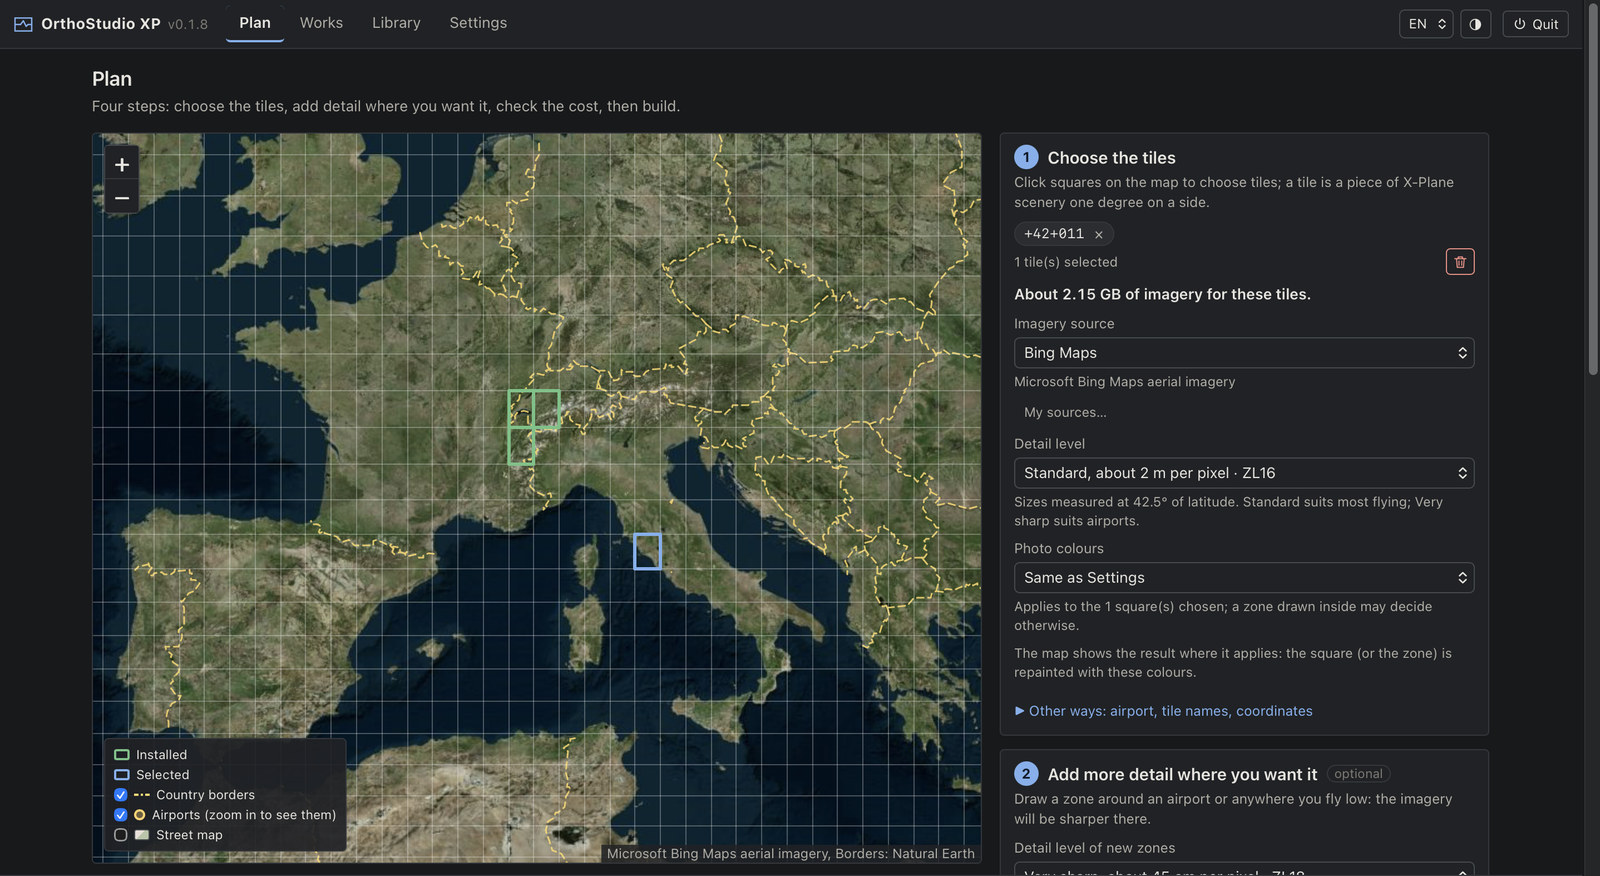
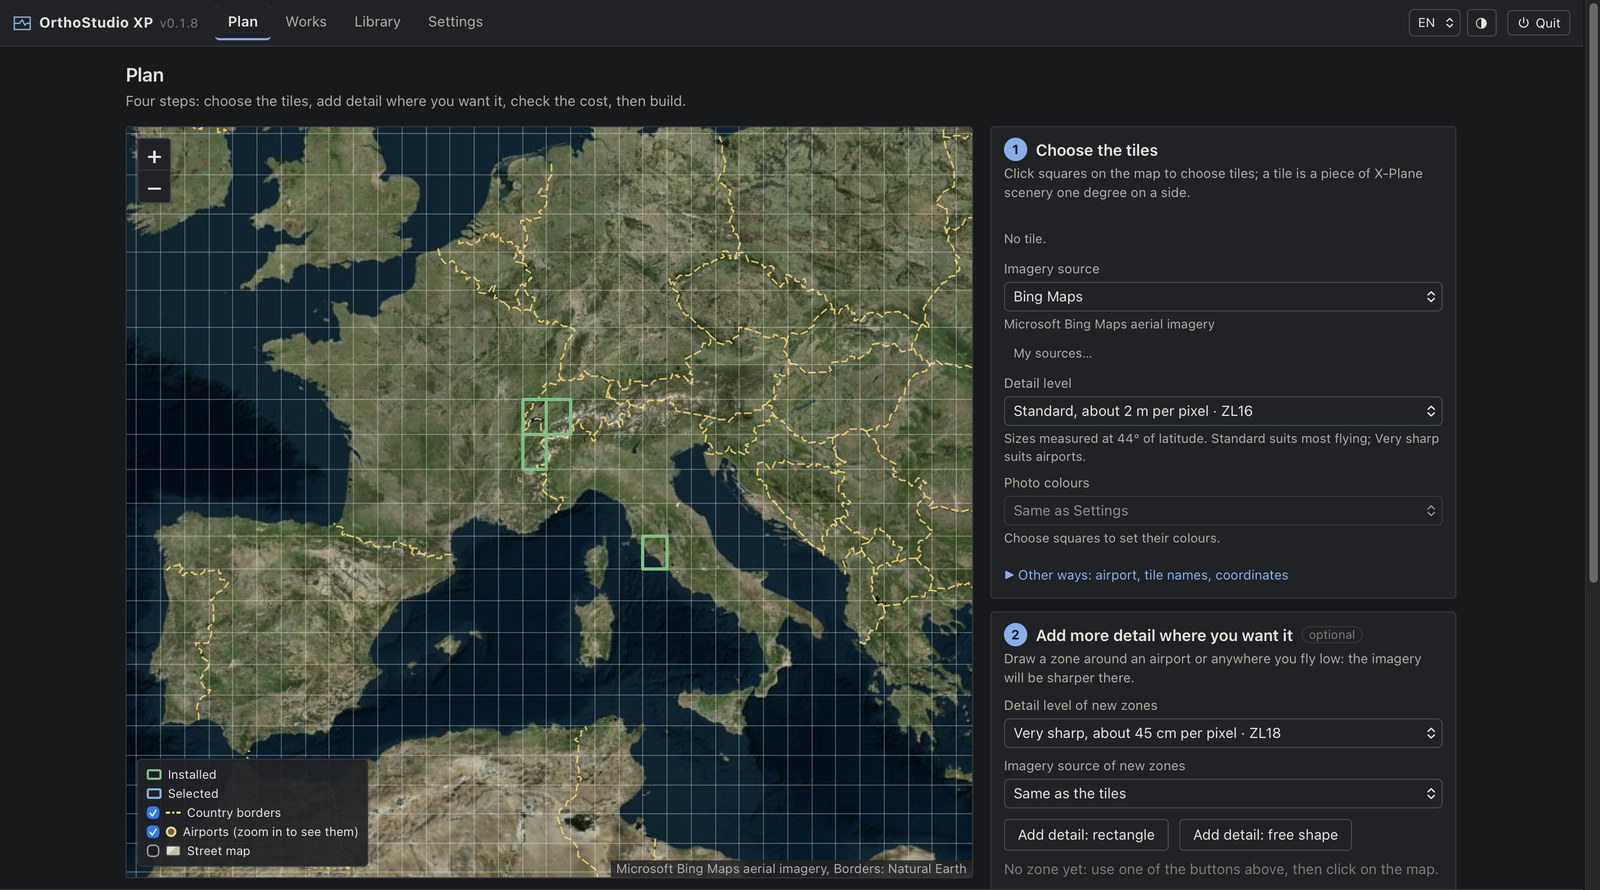
Take the five pictures of the README from the new window
All five at one window size this time, so the set is even: 1600x890 each, 1.61 MB together, under
what the store listing takes.

The cost picture comes out as a JPEG now, holding more of the map than the one before, and the
README follows it. Two of the descriptions were describing the pictures they replaced: nothing is
chosen on the Plan any more, the four green squares are tiles already built, and the Library
holds five tiles, the fifth being in Brazil and off the map Europe shows.

diff --git a/README.md b/README.md
@@ -13,7 +13,7 @@ built and checked automatically, but nobody has built a tile with it yet; a firs
 probably come later. The installer for Intel Macs is built and checked automatically too, on an
 Apple Silicon Mac under Rosetta, where it also runs; nobody has tried it on an Intel Mac yet.
 
-![The Plan page: three squares chosen over the Alps and one over Corsica, the colours of the photos set beside the map, and the four steps to build them](docs/images/plan.jpg)
+![The Plan page: the map of Europe, four tiles already built showing in green over the western Alps and the Tuscan coast, and beside it the first two of the four steps](docs/images/plan.jpg)
 
 ## What you get
 
@@ -65,11 +65,11 @@ How it works, what it keeps on disk and how to clean it:
 
 | What it will cost | Works |
 |---|---|
-| ![Step 3 of the Plan: what the build will download, compute and take on the disk, tile by tile](docs/images/cost.png) | ![A finished build of four tiles: every step of every tile, then the final report](docs/images/works.png) |
+| ![Step 3 of the Plan: what the build will download, compute and take on the disk, tile by tile](docs/images/cost.jpg) | ![A finished build of four tiles: every step of every tile, then the final report](docs/images/works.png) |
 
 | Library | Settings |
 |---|---|
-| ![The Library: four tiles in X-Plane, their size, and the disk space used](docs/images/library.png) | ![Settings: three presets and questions in plain words](docs/images/settings.png) |
+| ![The Library: five tiles in X-Plane, their size, and the disk space used](docs/images/library.png) | ![Settings: three presets and questions in plain words](docs/images/settings.png) |
 
 ## Build times, measured
 
